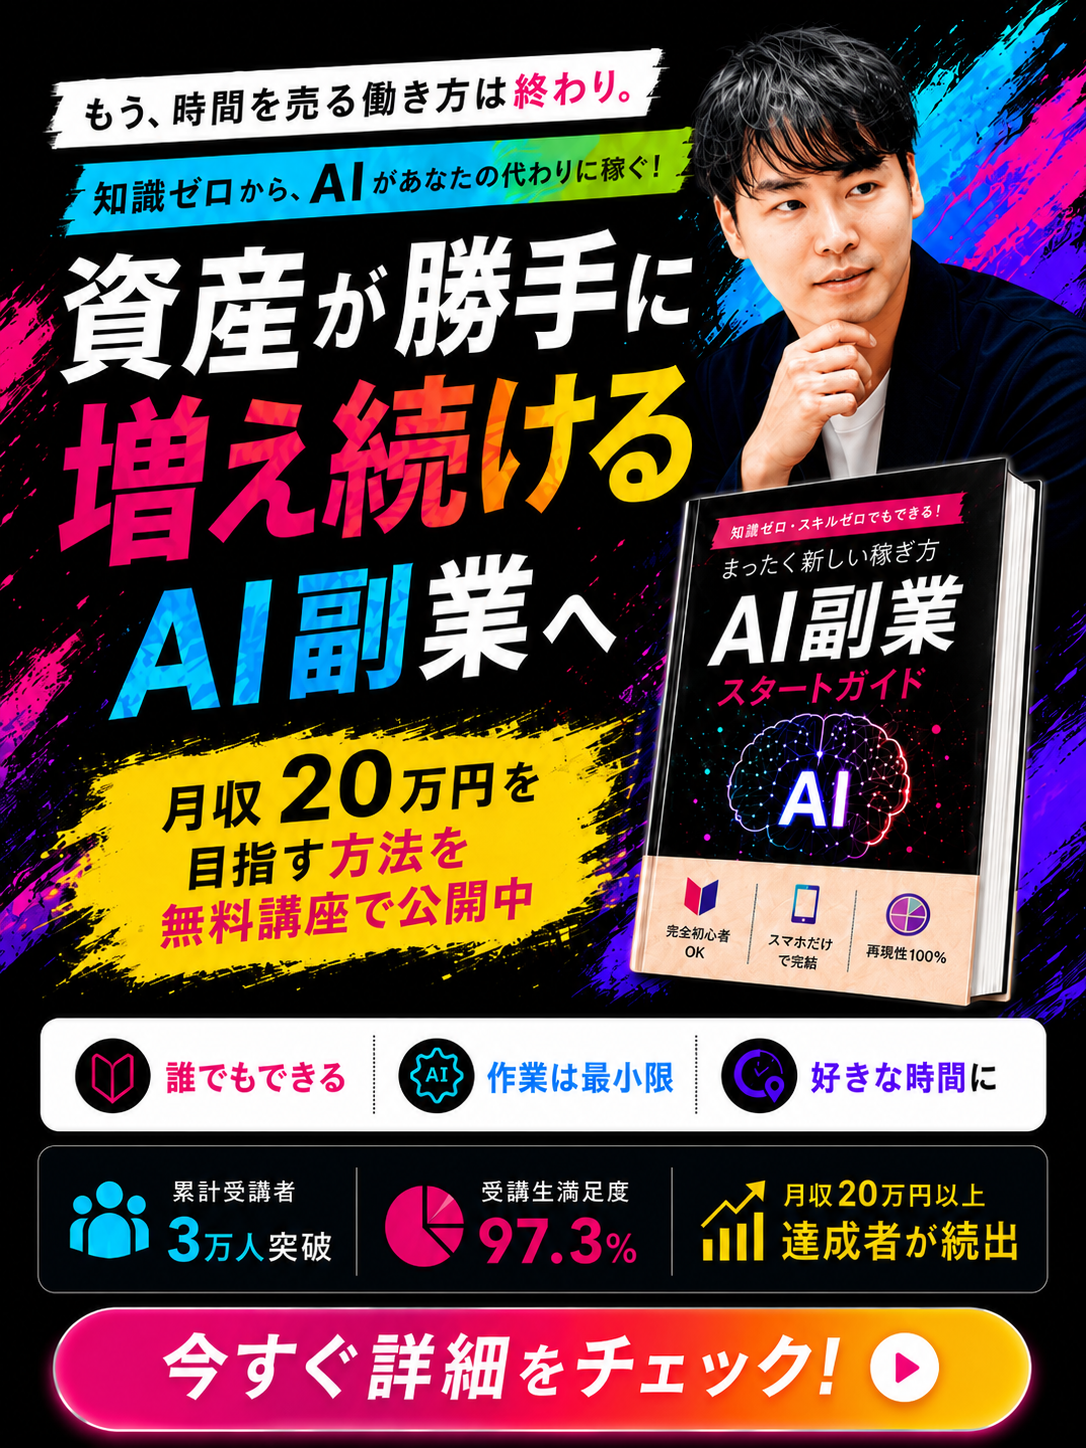
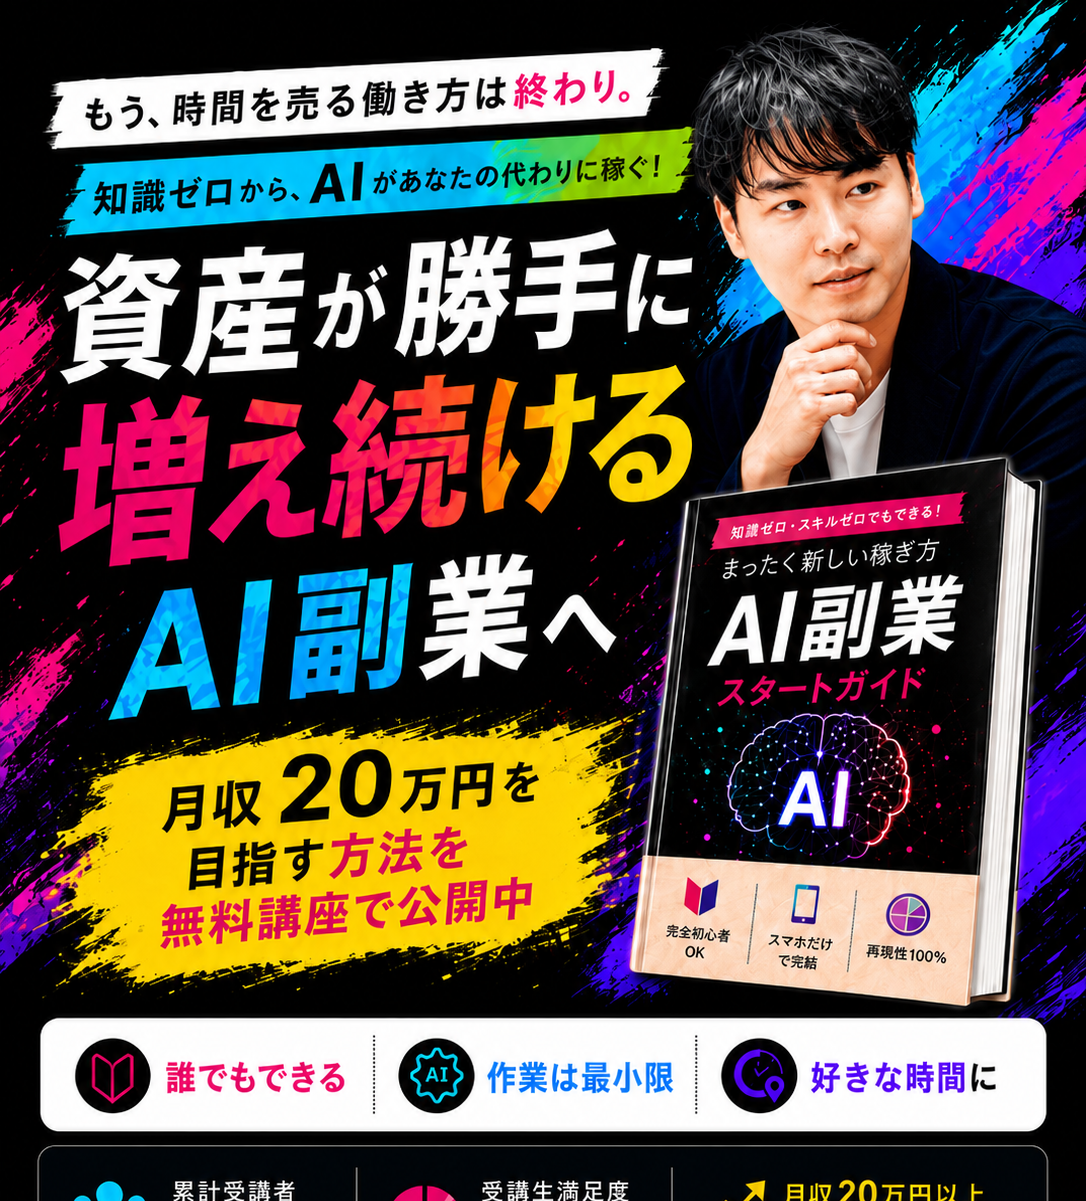
Crop bottom CTA from v5/v6 SP FVs (CTA button below is sufficient)

diff --git a/index_v5_long.html b/index_v5_long.html
@@ -315,7 +315,7 @@ h2::after{content:"";position:absolute;bottom:-41px;left:50%;transform:translate
       <!-- ===== FV ===== -->
       <div class="lp_block lp_block_fv">
         <picture>
-          <source media="(max-width: 600px)" srcset="images/fv_v5_sp.png?v=2">
+          <source media="(max-width: 600px)" srcset="images/fv_v5_sp.png?v=3">
           <img src="images/fv_v5.png" alt="Amazonベストセラー3部門1位の著者が贈る『資産型AI副業 全3話無料講座』">
         </picture>
       </div>

diff --git a/index_v6_long.html b/index_v6_long.html
@@ -315,7 +315,7 @@ h2::after{content:"";position:absolute;bottom:-41px;left:50%;transform:translate
       <!-- ===== FV ===== -->
       <div class="lp_block lp_block_fv">
         <picture>
-          <source media="(max-width: 600px)" srcset="images/fv_v6_sp.png?v=1">
+          <source media="(max-width: 600px)" srcset="images/fv_v6_sp.png?v=2">
           <img src="images/fv_v6.png" alt="Amazonベストセラー3部門1位の著者が贈る『資産型AI副業 全3話無料講座』">
         </picture>
       </div>